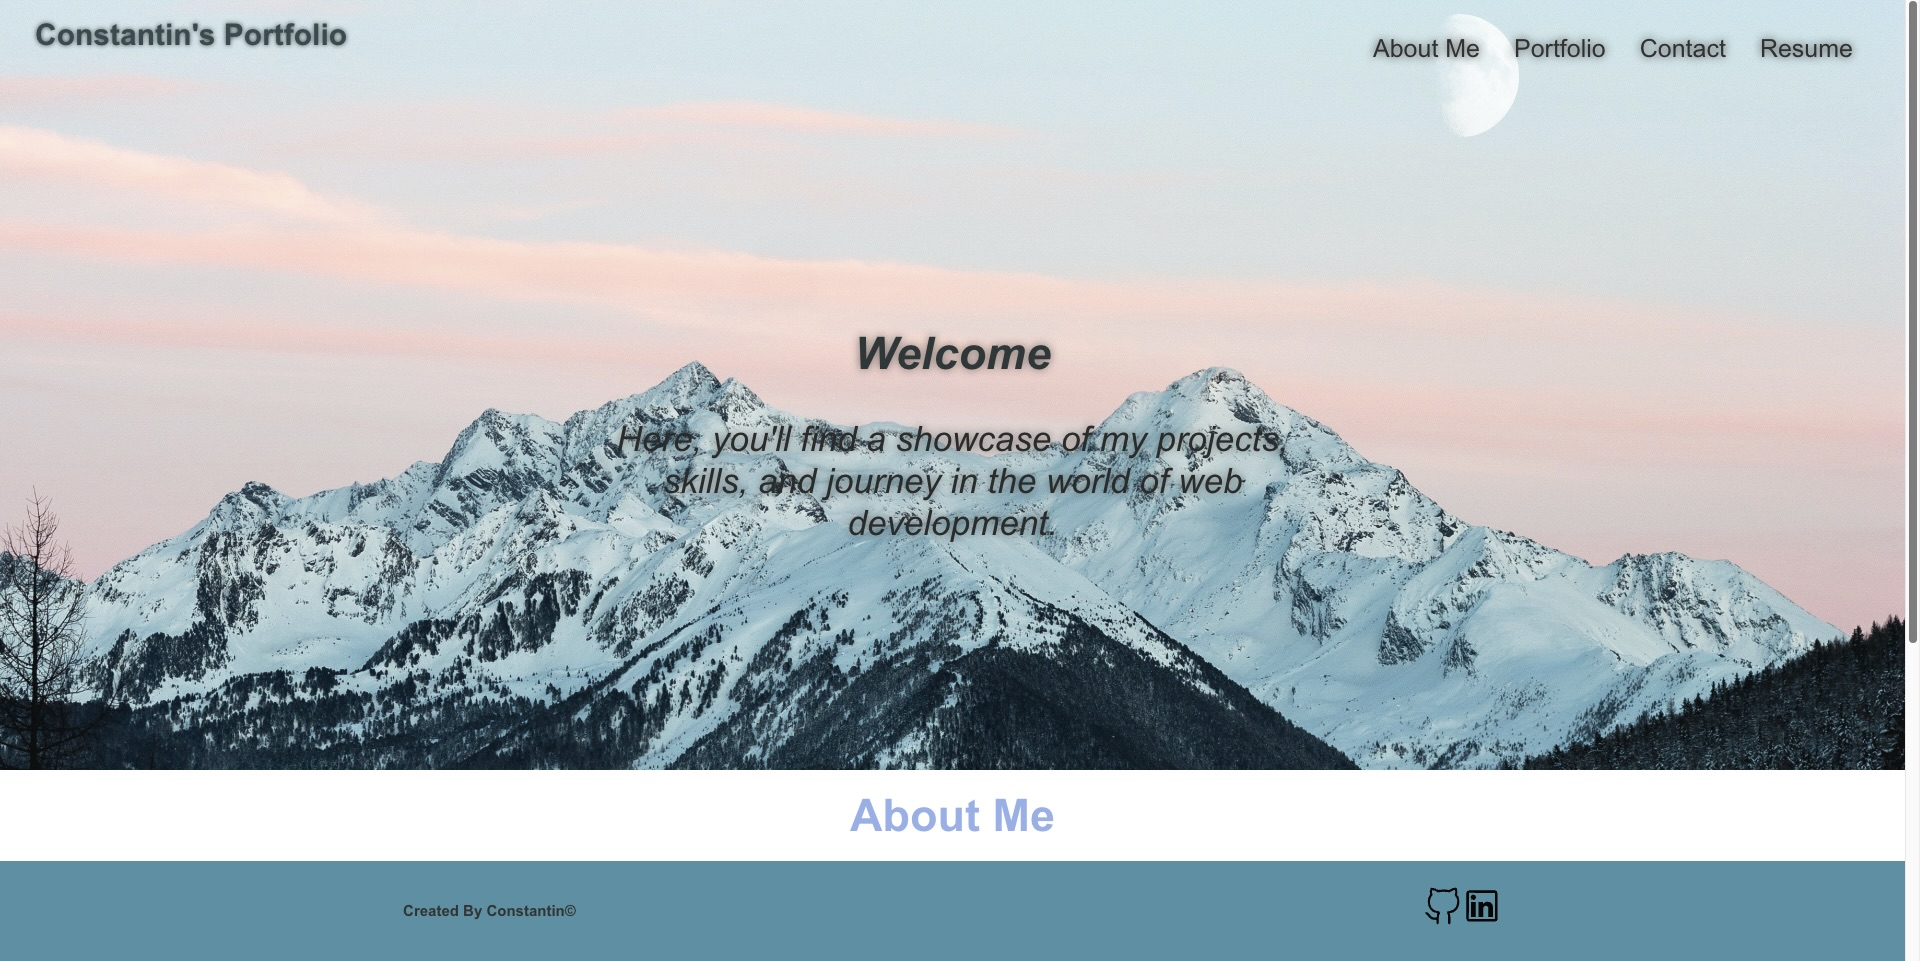
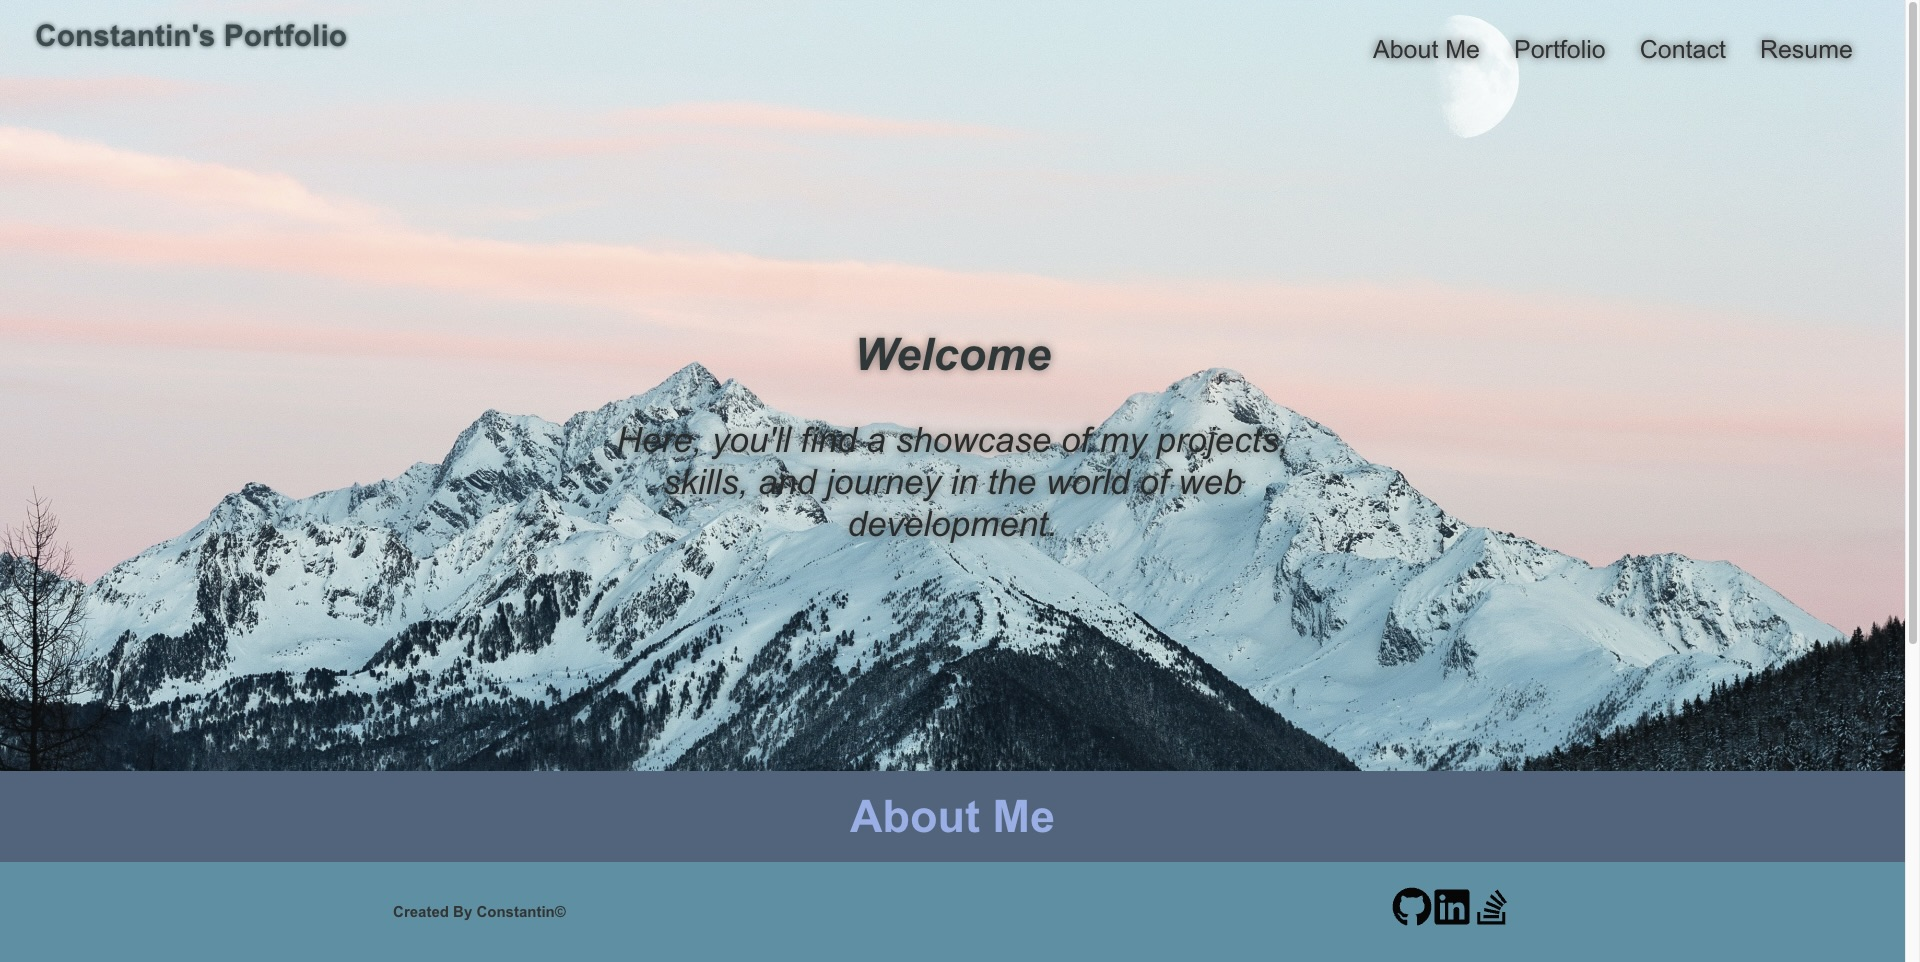
contact change & new screenshots

diff --git a/src/components/Resume/index.js b/src/components/Resume/index.js
@@ -1,9 +1,8 @@
 import React from "react";
 import myResume from "../../assets/Resume/ResumeL.pdf";
-import { BsCloudDownload } from "react-icons/bs";
-import { MdFoundation } from "react-icons/md";
-import { GrTechnology } from "react-icons/gr";
-import { GrDocumentPerformance } from "react-icons/gr";
+import { FaNodeJs } from "react-icons/fa";
+import { FaHtml5 } from "react-icons/fa";
+import { FaFileDownload } from "react-icons/fa";
 
 function Resume() {
   return (
@@ -16,7 +15,7 @@ function Resume() {
           <div className="download-info">
             <div className="download-text">
               <a href={myResume} className="download-logo" download>
-                <BsCloudDownload />
+                <FaFileDownload />
               </a>
             </div>
           </div>
@@ -28,14 +27,14 @@ function Resume() {
           <p className="column-text">
             <ul>
               <li className="logo">
-                <MdFoundation />
+                <FaHtml5 />
               </li>
-              <li>HTML5</li>
+              <li>React</li>
+              <li>HTML</li>
               <li>CSS</li>
               <li>JavaScript</li>
-              <li>APIs</li>
               <li>Bootstrap</li>
-              <li>GIT</li>
+              <li>JQuery</li>
             </ul>
           </p>
         </div>
@@ -45,28 +44,15 @@ function Resume() {
           <p className="column-text">
             <ul>
               <li className="logo">
-                <GrTechnology />
+                <FaNodeJs />
               </li>
+              <li>APIs</li>
               <li>Node.Js</li>
               <li>Express.js</li>
               <li>MySQL</li>
-              <li>Sequelize</li>
               <li>Mongodb</li>
-            </ul>
-          </p>
-        </div>
-        <div className="article column3">
-          <p className="column-title">Performance Tech</p>
-          <p className="column-text">
-            <ul>
-              <li className="logo">
-                <GrDocumentPerformance />
-              </li>
-              <li>Mongoose</li>
+              <li>REST</li>
               <li>GraphQL</li>
-              <li>React</li>
-              <li>MERN</li>
-              <li>State</li>
             </ul>
           </p>
         </div>

diff --git a/src/components/Footer/index.js b/src/components/Footer/index.js
@@ -1,6 +1,7 @@
 import React from "react";
-import { VscGithubAlt } from "react-icons/vsc";
-import { AiOutlineLinkedin } from "react-icons/ai";
+import { FaStackOverflow } from "react-icons/fa";
+import { FaGithub } from "react-icons/fa";
+import { FaLinkedin } from "react-icons/fa";
 
 function Footer() {
   return (
@@ -10,12 +11,17 @@ function Footer() {
         <ul>
           <a href="https://github.com/c0nstantin1990">
             <li className="logo">
-              <VscGithubAlt />
+              <FaGithub />
             </li>
           </a>
           <a href="https://www.linkedin.com/in/constantin-constantinov-37906227a/">
             <li className="logo">
-              <AiOutlineLinkedin />
+              <FaLinkedin />
+            </li>
+          </a>
+          <a href="https://stackoverflow.com/users/22506176/constantin-constantinov">
+            <li className="logo">
+              <FaStackOverflow />
             </li>
           </a>
         </ul>

diff --git a/src/index.css b/src/index.css
@@ -368,7 +368,7 @@ header nav ul li a:hover {
   cursor: pointer;
   list-style: none;
   font-size: 60px;
-  color: #af2e2e;
+  color: #0076fc;
   display: inline-block;
 }
 
